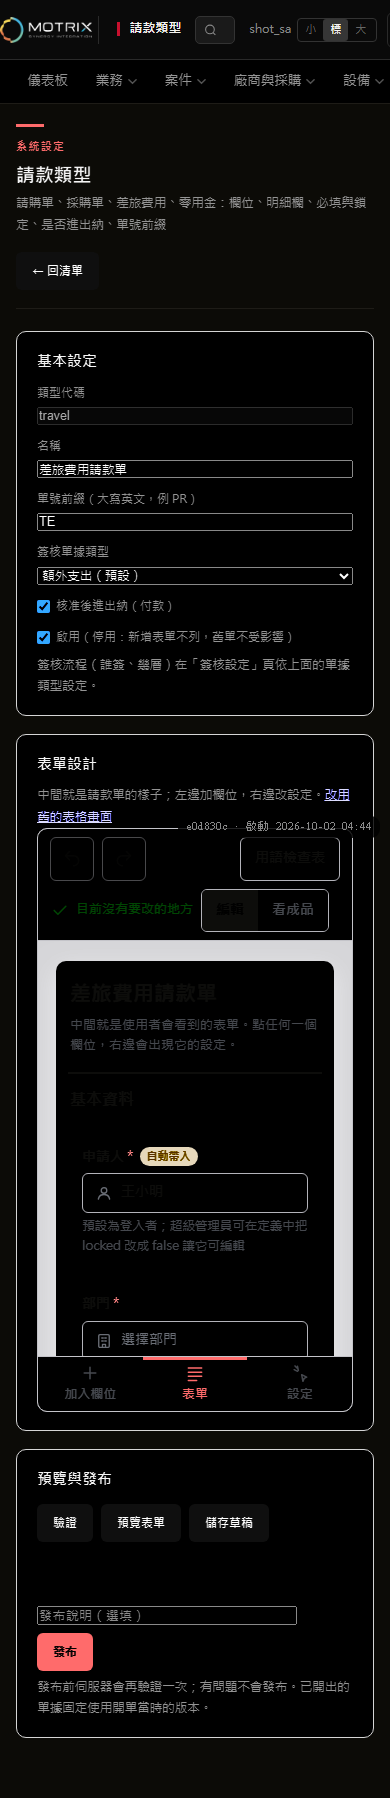
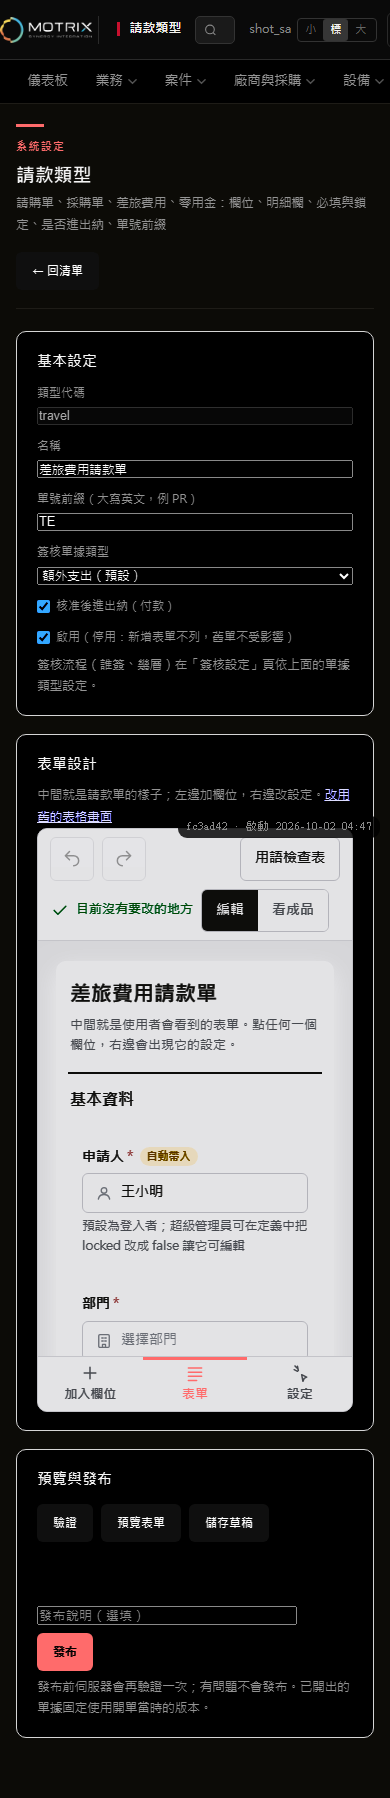
fix(請款類型頁): 深色面板底色/提示條 token 固定淺色值（不寫深色選擇器、不影響設計器）；截圖重拍

Changed region(s): [[0.0923, 0.436, 0.9231, 0.8098]]

diff --git a/frontend/pages/expense-types.html b/frontend/pages/expense-types.html
@@ -28,7 +28,7 @@
       border: 1px solid var(--tone-danger-border); color: var(--tone-danger-fg); font-size: 13px; }
     .et-ok { margin-top: 14px; padding: 10px 16px; border-radius: 8px; background: var(--tone-info-bg);
       border: 1px solid var(--tone-info-border); color: var(--tone-info-fg); font-size: 13px; }
-    .et-panel { margin-top: 18px; border: 1px solid var(--border); border-radius: 10px; padding: 18px 20px; background: var(--surface, #fff); }
+    .et-panel { margin-top: 18px; border: 1px solid var(--border); border-radius: 10px; padding: 18px 20px; background: #fff; }
     .et-panel h2 { font-size: 15px; margin: 0 0 8px; }
     .et-sub { font-size: 12.5px; color: var(--text-secondary); line-height: 1.7; }
     .et-grid { display: grid; grid-template-columns: repeat(auto-fill, minmax(220px, 1fr)); gap: 12px 16px; margin-top: 10px; }
@@ -47,8 +47,9 @@
     .et-keys label { display: flex; align-items: center; gap: 4px; }
     #et-preview { margin-top: 10px; min-height: 40px; }
     /* 深色主題＝整頁 invert 濾鏡（style.css）：頁面要用「淺色版」token，濾鏡才會把它反轉成深色；
-       :root[data-theme=dark] 的深色 token 只給不經濾鏡的頁面用，直接用會被反轉成淺底（面板標題與底色對比不足）。 */
-    :root[data-theme="dark"] .et-main { --surface: #FFFFFF; --tone-danger-fg: #B91C1C; --tone-danger-bg: #FEF2F2; --tone-danger-border: #FECACA;
+       style.css 的深色 token 只給不經濾鏡的頁面用，直接用會被反轉成淺底（面板標題與底色對比不足）。
+       這裡的面板底色與提示條 token 無條件固定成淺色值（淺色主題下本來就是這些值），所以不需要寫深色選擇器；設計器元件有自己的色票，不能被這裡覆蓋。 */
+    .et-err, .et-ok { --tone-danger-fg: #B91C1C; --tone-danger-bg: #FEF2F2; --tone-danger-border: #FECACA;
       --tone-info-fg: #1D4ED8; --tone-info-bg: #EEF2FF; --tone-info-border: #BFDBFE; }
     @media (max-width: 720px) { .et-main { margin-left: 0; padding: 20px 16px 60px; } }
   </style>
